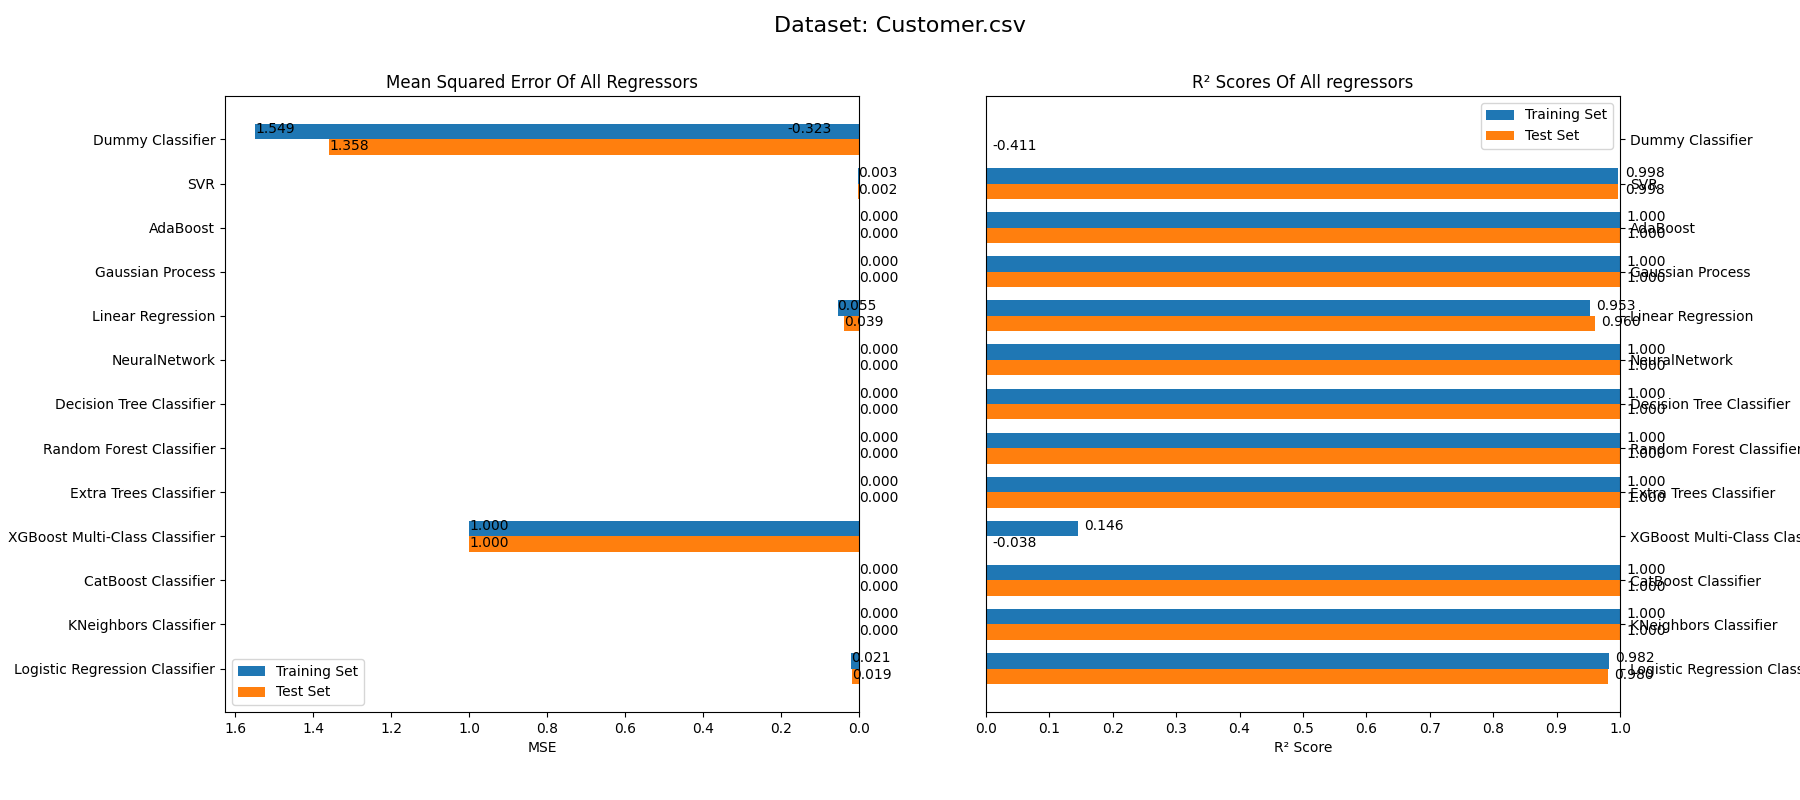
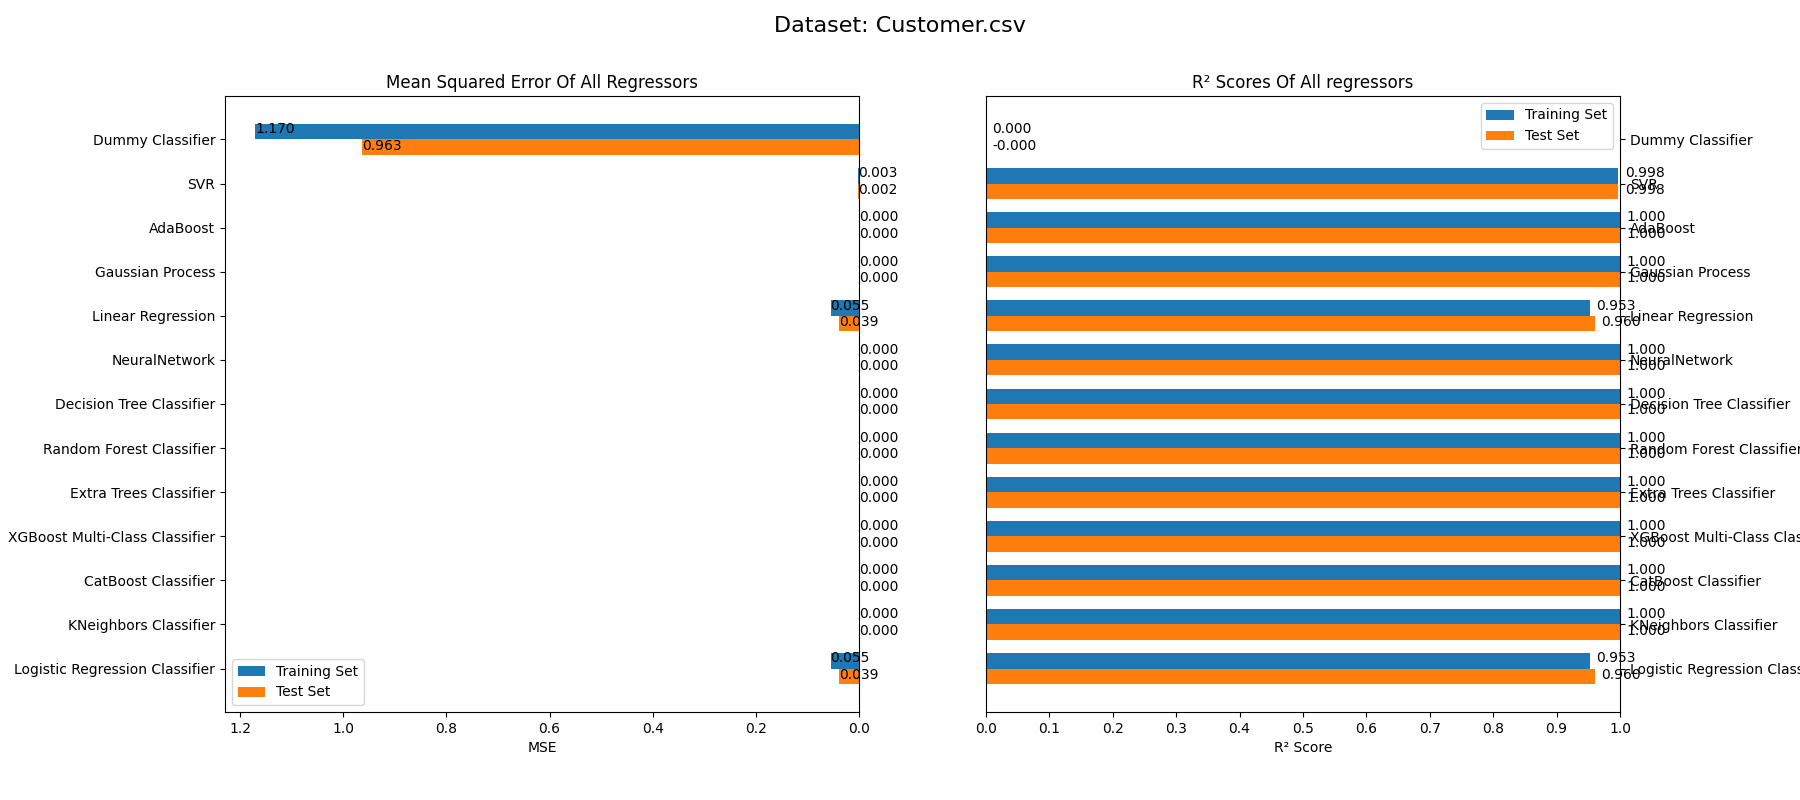
added regressors

diff --git a/regression/reg.py b/regression/reg.py
@@ -43,105 +43,103 @@ from sklearn.metrics import *
 DATA_PATH = 'dataset/'
 IMAGE_PATH = 'img/'
 
-# Add a new function for Dummy Classifier
-def train_DummyClassifier(X_train, y_train):
-    print('Training DummyClassifier ...')
-    dummy = DummyClassifier(strategy="prior")
-    dummy.fit(X_train, y_train)
-    return dummy
 
-# Modify the train_DecisionTree function to use specified hyperparameters for classification
-def train_DecisionTreeClassifier(X_train, y_train):
-    print('Training DecisionTreeClassifier ...')
-    tree = DecisionTreeClassifier(random_state=0)
+from sklearn.dummy import DummyRegressor
+from sklearn.tree import DecisionTreeRegressor
+from sklearn.linear_model import LinearRegression
+from sklearn.ensemble import RandomForestRegressor, ExtraTreesRegressor
+from xgboost import XGBRegressor
+from catboost import CatBoostRegressor
+from sklearn.neighbors import KNeighborsRegressor
+
+# ... (previous code) ...
+
+def train_DummyRegressor(X_train, y_train):
+    print('Training DummyRegressor ...')
+    dummy_regressor = DummyRegressor(strategy="mean")
+    dummy_regressor.fit(X_train, y_train)
+    return dummy_regressor
+
+def train_DecisionTree(X_train, y_train):
+    print('Training DecisionTree ...')
+    dt = DecisionTreeRegressor()
     param_distributions = {
-        'criterion': ["gini", "entropy"],
-        'max_depth': [2, 3, 4]
+        "criterion": ['absolute_error', 'squared_error', 'friedman_mse', 'poisson'],
+        "max_depth": [2, 3, 4]
     }
-    randcv = sklearn.model_selection.RandomizedSearchCV(
-        tree, param_distributions, n_iter=10, cv=3,  random_state=0)
+    randcv = RandomizedSearchCV(dt, param_distributions, n_iter=10, cv=3, n_jobs=-1, random_state=0)
     randcv.fit(X_train, y_train)
     return randcv
 
-# Add a new function for Logistic Regression
-def train_LogisticRegressionClassifier(X_train, y_train):
-    print('Training LogisticRegressionClassifier ...')
-    lr = LogisticRegression(solver='liblinear', multi_class='auto', random_state=0)
-    lr.fit(X_train, y_train)
-    return lr
+def train_LinearRegression(X_train, y_train):
+    print('Training LinearRegression ...')
+    linear = LinearRegression(n_jobs=-1)
+    # No hyperparameters to tune for Linear Regression
+    linear.fit(X_train, y_train)
+    return linear
 
-# Modify the train_RandomForest function to use specified hyperparameters for classification
-def train_RandomForestClassifier(X_train, y_train):
-    print('Training RandomForestClassifier ...')
-    forest = RandomForestClassifier(random_state=0)
+def train_RandomForest(X_train, y_train):
+    print('Training RandomForest ...')
+    rf = RandomForestRegressor()
     param_distributions = {
-        'criterion': ["gini", "entropy"],
-        'max_features': [0.5, 0.6, 0.7, 0.8, 0.9, 1.0],
-        'min_samples_split': [10, 20, 30, 40, 50],
-        'max_depth': [4, 6, 8, 10, 12],
+        "criterion": ['absolute_error', 'squared_error', 'friedman_mse', 'poisson'],
+        "max_features": [0.5, 0.6, 0.7, 0.8, 0.9, 1.0],
+        "min_samples_split": [10, 20, 30, 40, 50],
+        "max_depth": [4, 6, 8, 10, 12],
     }
-    randcv = sklearn.model_selection.RandomizedSearchCV(
-        forest, param_distributions, n_iter=10, cv=3,  random_state=0)
+    randcv = RandomizedSearchCV(rf, param_distributions, n_iter=10, cv=3, n_jobs=-1, random_state=0)
     randcv.fit(X_train, y_train)
     return randcv
 
-# Modify the train_RandomForest function to use specified hyperparameters for classification
-def train_ExtraTreesClassifier(X_train, y_train):
-    print('Training ExtraTreesClassifier ...')
-    extra_trees = ExtraTreesClassifier(random_state=0)
+def train_ExtraTrees(X_train, y_train):
+    print('Training ExtraTrees ...')
+    et = ExtraTreesRegressor()
     param_distributions = {
-        'criterion': ["gini", "entropy"],
-        'max_features': [0.5, 0.6, 0.7, 0.8, 0.9, 1.0],
-        'min_samples_split': [10, 20, 30, 40, 50],
-        'max_depth': [4, 6, 8, 10, 12],
+        "criterion": ['absolute_error', 'squared_error', 'friedman_mse', 'poisson'],
+        "max_features": [0.5, 0.6, 0.7, 0.8, 0.9, 1.0],
+        "min_samples_split": [10, 20, 30, 40, 50],
+        "max_depth": [4, 6, 8, 10, 12],
     }
-    randcv = sklearn.model_selection.RandomizedSearchCV(
-        extra_trees, param_distributions, n_iter=10, cv=3,  random_state=0)
+    randcv = RandomizedSearchCV(et, param_distributions, n_iter=10, cv=3, n_jobs=-1, random_state=0)
     randcv.fit(X_train, y_train)
     return randcv
 
-# Add a new function for XGBoost Multi-Class Classification
-def train_XGBoostMultiClassClassifier(X_train, y_train):
-    le = LabelEncoder()
-    y_train = le.fit_transform(y_train)
-    print('Training XGBoost Multi-Class Classifier ...')
-    xgb = XGBClassifier(objective="multi:softprob", eval_metric="mlogloss", random_state=0)
+def train_XGBRegressor(X_train, y_train):
+    print('Training XGBoost ...')
+    xgb = XGBRegressor()
     param_distributions = {
-        'eta': [0.05, 0.075, 0.1, 0.15],
-        'max_depth': [1, 2, 3, 4, 5, 6, 7, 8, 9],
-        'min_child_weight': [1, 2, 3, 4, 5, 6, 7, 8, 9, 10],
-        'subsample': [0.3, 0.4, 0.5, 0.6, 0.7, 0.8, 0.9, 1.0],
-        'colsample_bytree': [0.3, 0.4, 0.5, 0.6, 0.7, 0.8, 0.9, 1.0],
+        "objective": ["reg:squarederror"],
+        "eval_metric": ["rmse"],
+        "eta": [0.05, 0.075, 0.1, 0.15],
+        "max_depth": [1, 2, 3, 4],
+        "min_child_weight": [1, 2, 3, 4, 5, 6, 7, 8, 9, 10],
+        "colsample_bytree": [0.3, 0.4, 0.5, 0.6, 0.7, 0.8, 0.9, 1.0],
     }
-    randcv = sklearn.model_selection.RandomizedSearchCV(
-        xgb, param_distributions, n_iter=10, cv=3,  random_state=0)
+    randcv = RandomizedSearchCV(xgb, param_distributions, n_iter=10, cv=3, n_jobs=-1, random_state=0)
     randcv.fit(X_train, y_train)
     return randcv
 
-# Add a new function for CatBoost Classifier
-def train_CatBoostClassifier(X_train, y_train):
-    print('Training CatBoost Classifier ...')
-    catboost = CatBoostClassifier(iterations=50, verbose=0, random_state=0)
+def train_CatBoostRegressor(X_train, y_train):
+    print('Training CatBoost ...')
+    catboost = CatBoostRegressor(silent=True)
     param_distributions = {
-        'learning_rate': [0.05, 0.1, 0.2],
-        'depth': [2, 3, 4, 5, 6],
-        'rsm': [0.7, 0.8, 0.9, 1],
-        'min_data_in_leaf': [1, 5, 10, 15, 20, 30, 50],
+        "learning_rate": [0.05, 0.1, 0.2],
+        "depth": [2, 3, 4, 5, 6],
+        "rsm": [0.7, 0.8, 0.9, 1],  # random subspace method # random subspace method
+        "min_data_in_leaf": [1, 5, 10, 15, 20, 30, 50],
     }
-    randcv = sklearn.model_selection.RandomizedSearchCV(
-        catboost, param_distributions, n_iter=10, cv=3,  random_state=0)
+    randcv = RandomizedSearchCV(catboost, param_distributions, n_iter=10, cv=3, n_jobs=-1, random_state=0)
     randcv.fit(X_train, y_train)
     return randcv
-# Modify the train_KNN function to use specified hyperparameters for classification
-def train_KNeighborsClassifier(X_train, y_train):
-    print('Training KNeighborsClassifier ...')
-    knn = KNeighborsClassifier()
+
+def train_KNeighborsRegressor(X_train, y_train):
+    print('Training KNeighborsRegressor ...')
+    knn = KNeighborsRegressor()
     param_distributions = {
-        'n_neighbors': [3, 5, 7],
-        'weights': ["uniform", "distance"]
+        "n_neighbors": [3, 5, 7],
+        "weights": ["uniform", "distance"]
     }
-    randcv = sklearn.model_selection.RandomizedSearchCV(
-        knn, param_distributions, n_iter=10, cv=3,  random_state=0)
+    randcv = RandomizedSearchCV(knn, param_distributions, n_iter=10, cv=3, n_jobs=-1, random_state=0)
     randcv.fit(X_train, y_train)
     return randcv
 
@@ -238,7 +236,7 @@ def run_all_regrs(X_train, y_train, X_test, y_test):
     all_regrs = []
     regr_names = []
 
-    regr0 = train_DummyClassifier(X_train, y_train)
+    regr0 = train_DummyRegressor(X_train, y_train)
     all_regrs.append(regr0)
     regr_names.append('Dummy Classifier')
 
@@ -263,38 +261,38 @@ def run_all_regrs(X_train, y_train, X_test, y_test):
     regr_names.append('Gaussian Process')
 
     regr6 = train_LinearRegression(X_train, y_train)
-    all_regrs.append(regr6.best_estimator_)
+    all_regrs.append(regr6)
     regr_names.append('Linear Regression')
 
     regr7 = train_NeuralNetwork(X_train, y_train)
     all_regrs.append(regr7.best_estimator_)
     regr_names.append('NeuralNetwork')
 
-    regr8 = train_DecisionTreeClassifier(X_train, y_train)
+    regr8 = train_DecisionTree(X_train, y_train)
     all_regrs.append(regr8.best_estimator_)
     regr_names.append('Decision Tree Classifier')
 
-    regr9 = train_RandomForestClassifier(X_train, y_train)
+    regr9 = train_RandomForest(X_train, y_train)
     all_regrs.append(regr9.best_estimator_)
     regr_names.append('Random Forest Classifier')
 
-    regr10 = train_ExtraTreesClassifier(X_train, y_train)
+    regr10 = train_ExtraTrees(X_train, y_train)
     all_regrs.append(regr10.best_estimator_)
     regr_names.append('Extra Trees Classifier') 
 
-    regr11 = train_XGBoostMultiClassClassifier(X_train, y_train)
+    regr11 = train_XGBRegressor(X_train, y_train)
     all_regrs.append(regr11.best_estimator_)
     regr_names.append('XGBoost Multi-Class Classifier')
 
-    regr12 = train_CatBoostClassifier(X_train, y_train)
+    regr12 = train_CatBoostRegressor(X_train, y_train)
     all_regrs.append(regr12.best_estimator_)
     regr_names.append('CatBoost Classifier')
 
-    regr13 = train_KNeighborsClassifier(X_train, y_train)
+    regr13 = train_KNeighborsRegressor(X_train, y_train)
     all_regrs.append(regr13.best_estimator_)
     regr_names.append('KNeighbors Classifier')
 
-    regr14 = train_LogisticRegressionClassifier(X_train, y_train)
+    regr14 = train_LinearRegression(X_train, y_train)
     all_regrs.append(regr14)
     regr_names.append('Logistic Regression Classifier')
 

diff --git a/README.md b/README.md
@@ -35,14 +35,18 @@ $ python main.py
 10. [Seismic-Bumps](https://archive.ics.uci.edu/ml/datasets/seismic-bumps)
 
 ### Classifier
-1. k-nearest neighbours classification
-2. Support vector classification
-3. Decision tree classification
-4. Random forest classification
-5. AdaBoost classification 
-6. Logistic regression (for classification)
-7. Gaussian naive Bayes classification
-8. Neural network classification
+1. Dummy Classifier
+2. k-nearest neighbours classification
+3. Support vector classification
+4. Decision tree classification
+5. Random forest classification
+6. AdaBoost classification 
+7. Logistic regression (for classification)
+8. Gaussian naive Bayes classification
+9. Neural network classification
+10. Extra trees classification
+11. Xgboost Multiclass classification
+12. Catboost classification
 
 ### Result
 <p float="left">
@@ -83,6 +87,9 @@ $ python main.py
 5. Gaussian process regression
 6. Linear regression
 7. Neural network regression
+8. Extra trees regression
+9. Xgboost regression
+10. Catboost regression
 
 ### Result
 <p float="left">
